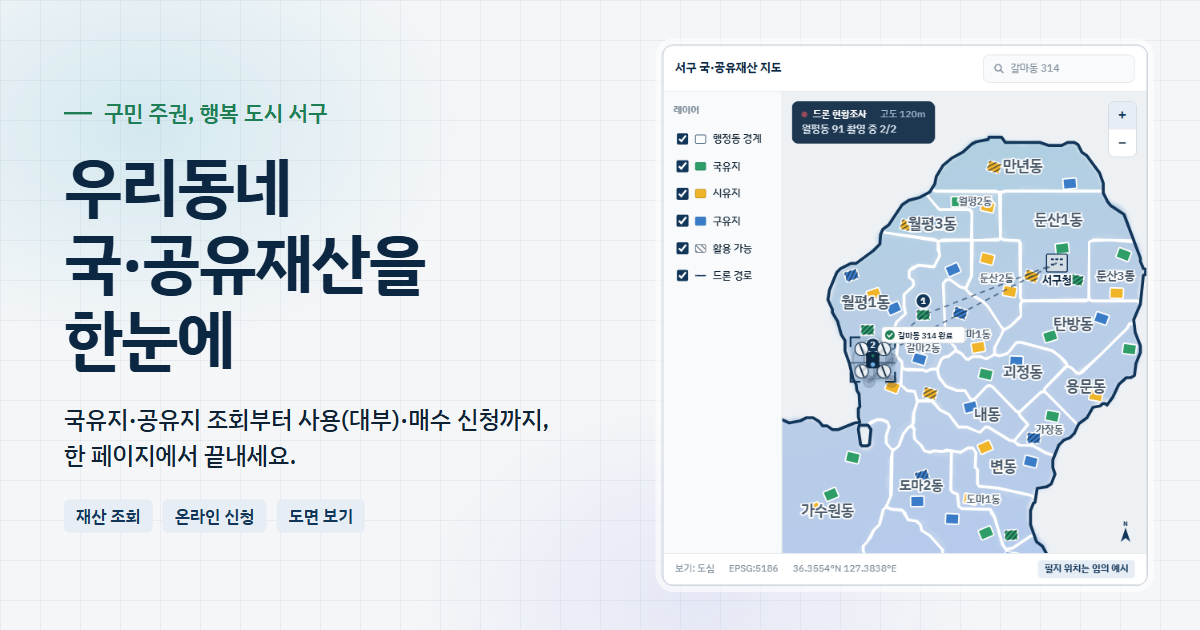
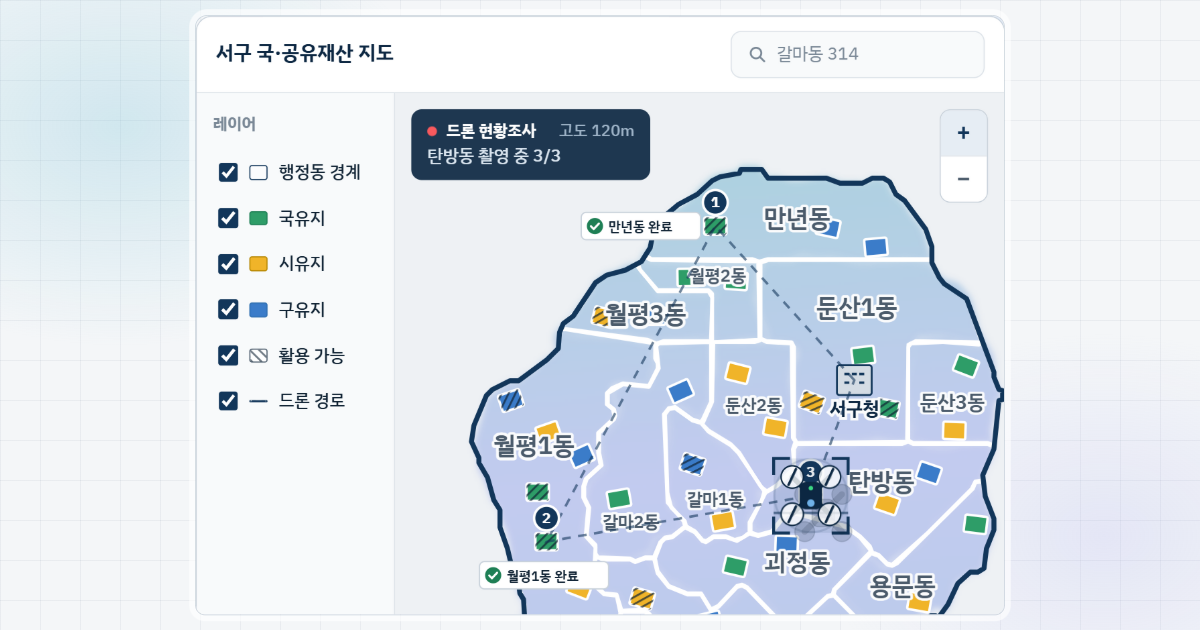
feat: 링크 미리보기 이미지를 드론 조사 중인 지도 화면으로 교체
- 드론이 만년동, 월평1동 조사를 마치고 탄방동을 촬영하는 지도 화면으로 og-image.png 교체
- 미리보기 이미지 대체 텍스트를 새 화면에 맞게 수정

diff --git a/index.html b/index.html
@@ -14,7 +14,8 @@
   <meta property="og:image" content="https://seogu-land.vercel.app/og-image.png">
   <meta property="og:image:width" content="1200">
   <meta property="og:image:height" content="630">
-  <meta property="og:image:alt" content="구민 주권, 행복 도시 서구. 우리동네 국·공유재산을 한눈에. 국유지·공유지 조회부터 사용(대부)·매수 신청까지, 한 페이지에서 끝내세요.">
+  <meta property="og:image:alt" content="서구 국·공유재산 지도 화면. 행정동 지도 위에 국유지, 시유지, 구유지가 색으로 표시되어 있고, 드론이 만년동과 월평1동 조사를 마치고 탄방동을 촬영하고 있습니다.">
+  <meta name="twitter:image:alt" content="서구 국·공유재산 지도 화면. 행정동 지도 위에 국유지, 시유지, 구유지가 색으로 표시되어 있고, 드론이 만년동과 월평1동 조사를 마치고 탄방동을 촬영하고 있습니다.">
   <meta name="twitter:card" content="summary_large_image">
   <meta name="twitter:title" content="우리동네 국·공유재산을 한눈에">
   <meta name="twitter:description" content="국유지·공유지 조회부터 사용(대부)·매수 신청까지, 한 페이지에서 끝내세요.">
